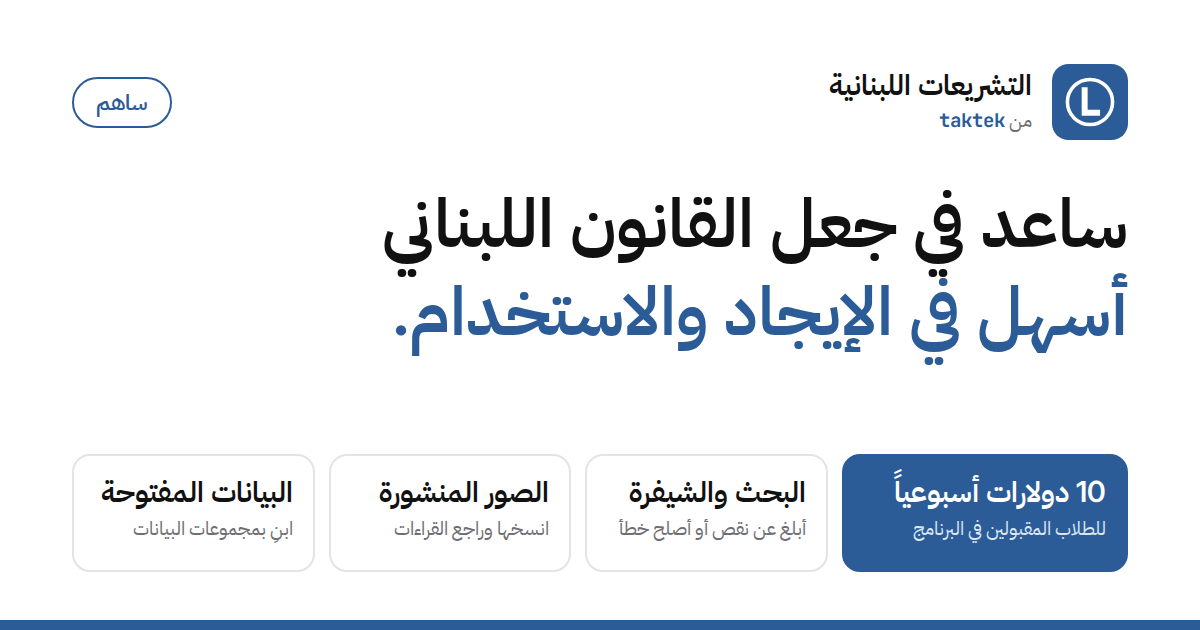
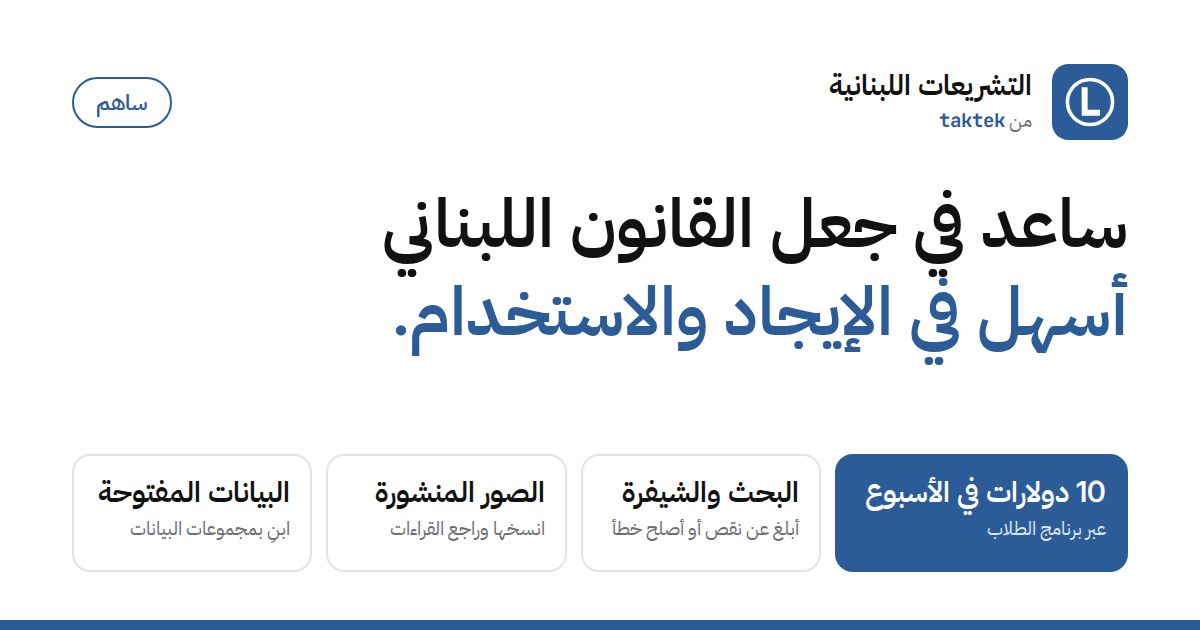
Share image: "$10 per week", "through the student program" (Nizar's wording)
The pay is only for students accepted into the program, not anyone who
studies with the site. First card a little wider so every caption fits on
one line.

Changed region(s): [[0.3083, 0.7238, 0.925, 0.9048], [0.0617, 0.7238, 0.2775, 0.9048]]

diff --git a/docs/og/contribute.html b/docs/og/contribute.html
@@ -27,10 +27,10 @@ body{font-family:Inter,Plex,sans-serif;position:relative;padding:64px 72px 0}
 h1{font-size:74px;line-height:1.04;letter-spacing:-.035em;font-weight:700;margin-top:52px}
 h1 em{font-style:normal;color:var(--blue)}
 [dir=rtl] h1{font-size:68px;line-height:1.3;letter-spacing:0;font-weight:600;margin-top:40px}
-.ways{position:absolute;inset-inline:72px;bottom:58px;display:grid;grid-template-columns:1.18fr 1fr 1fr 1fr;gap:14px}
+.ways{position:absolute;inset-inline:72px;bottom:58px;display:grid;grid-template-columns:1.22fr 1fr 1fr 1fr;gap:14px}
 .way{border:2px solid var(--line);border-radius:18px;padding:18px 20px 19px;min-height:118px}
 .way b{display:block;font-size:30px;font-weight:700;letter-spacing:-.02em;line-height:1.1}
-.way span{display:block;font-size:18px;color:var(--mut);margin-top:9px;line-height:1.3}
+.way span{display:block;font-size:17px;color:var(--mut);margin-top:9px;line-height:1.3}
 [dir=rtl] .way b{font-size:29px;font-weight:600;letter-spacing:0;line-height:1.3}
 [dir=rtl] .way span{font-size:19px;margin-top:5px}
 .way.pay{background:var(--blue);border-color:var(--blue);color:#fff}
@@ -63,7 +63,7 @@ const copy = {
   en: {
     name: '<span>Lebanese</span> <b>Legislation</b>', by: 'by', tag: 'Contribute',
     h1: 'Help make Lebanese law<br><em>easier to find and use.</em>',
-    w1: '$10 a week', w1s: 'For accepted students',
+    w1: '$10 per week', w1s: 'Through the student program',
     w2: 'Search & code', w2s: 'Report misses, fix bugs',
     w3: 'Public scans', w3s: 'Transcribe and review',
     w4: 'Open data', w4s: 'Build with the datasets',
@@ -71,7 +71,7 @@ const copy = {
   ar: {
     name: '<b>التشريعات اللبنانية</b>', by: 'من', tag: 'ساهم',
     h1: 'ساعد في جعل القانون اللبناني<br><em>أسهل في الإيجاد والاستخدام.</em>',
-    w1: '10 دولارات أسبوعياً', w1s: 'للطلاب المقبولين في البرنامج',
+    w1: '10 دولارات في الأسبوع', w1s: 'عبر برنامج الطلاب',
     w2: 'البحث والشيفرة', w2s: 'أبلغ عن نقص أو أصلح خطأ',
     w3: 'الصور المنشورة', w3s: 'انسخها وراجع القراءات',
     w4: 'البيانات المفتوحة', w4s: 'ابنِ بمجموعات البيانات',
